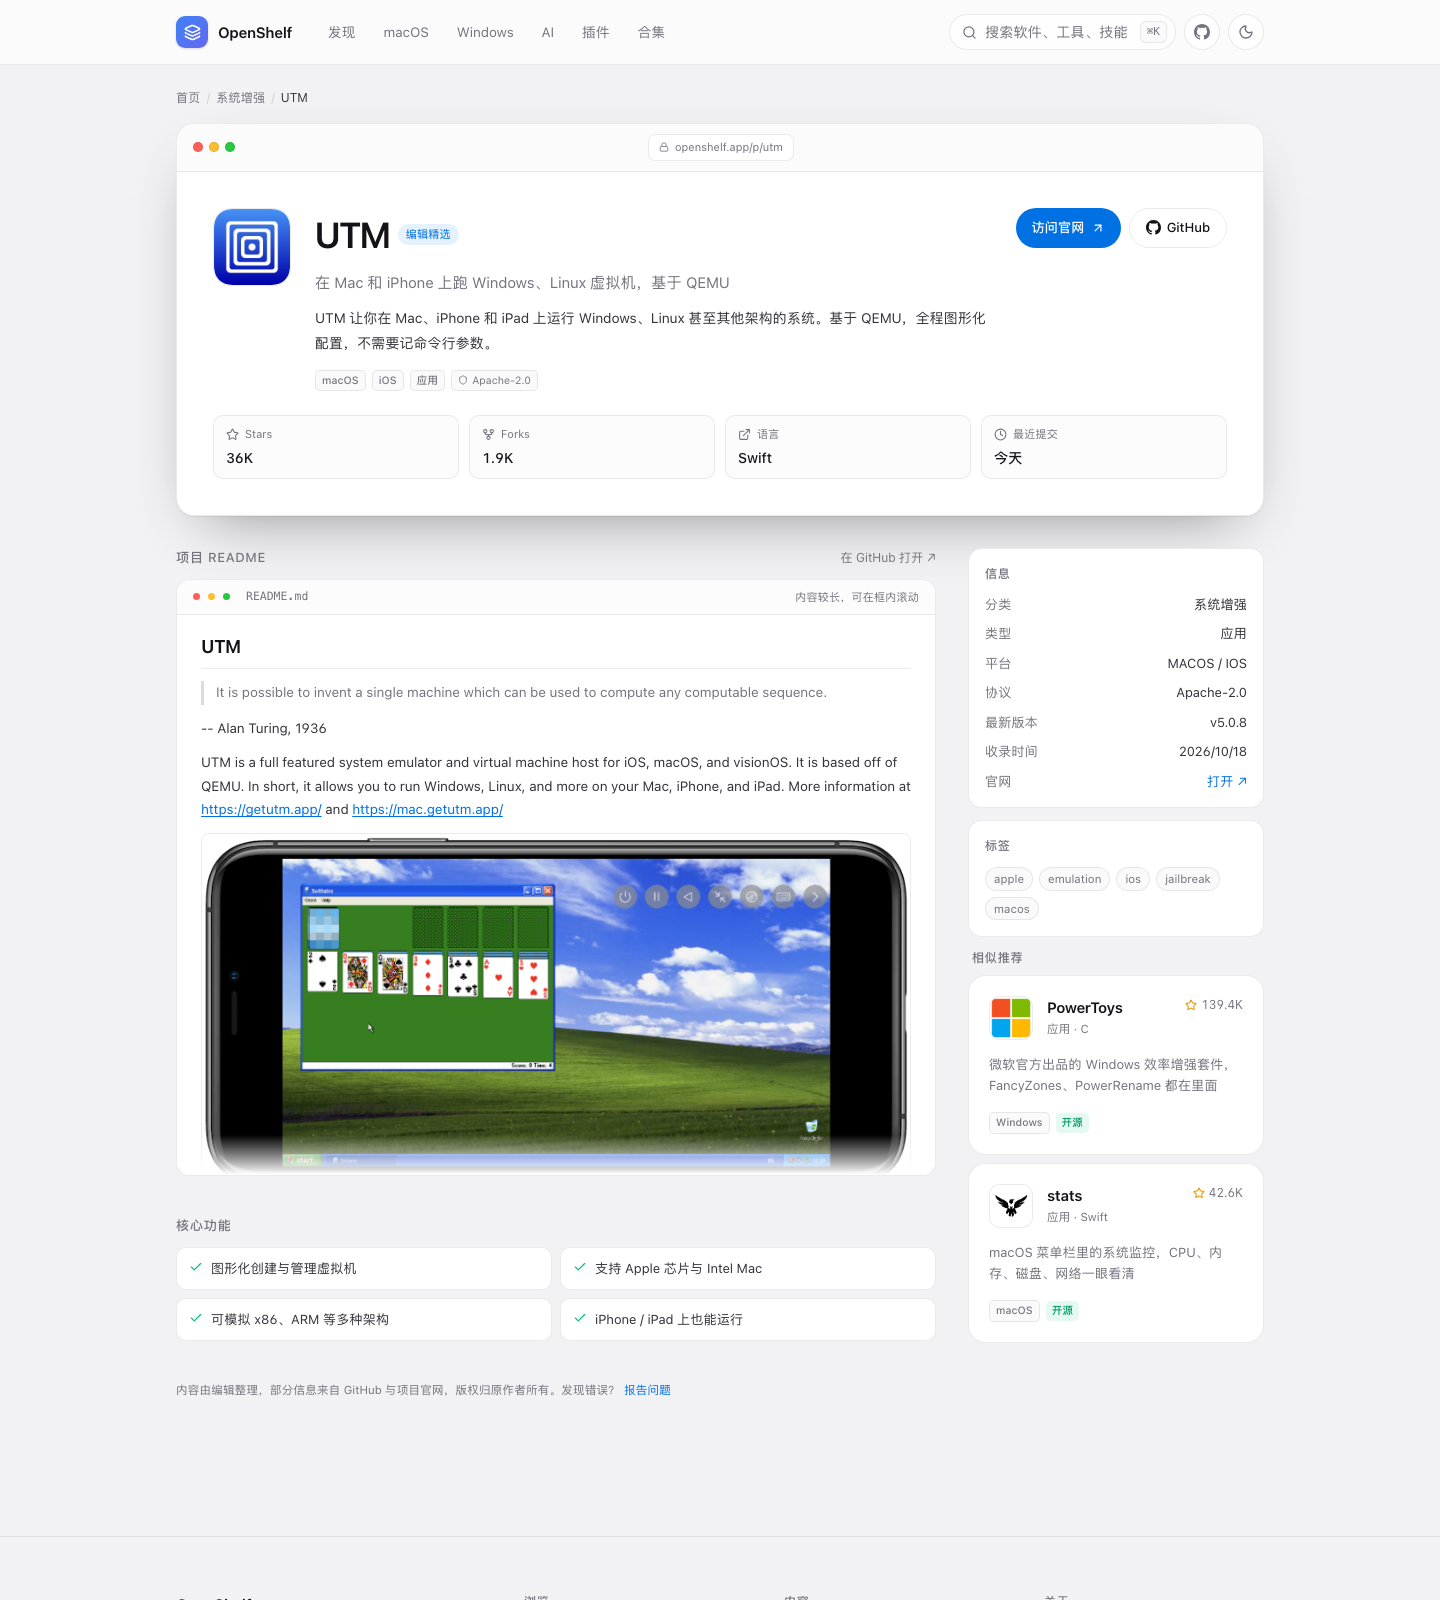
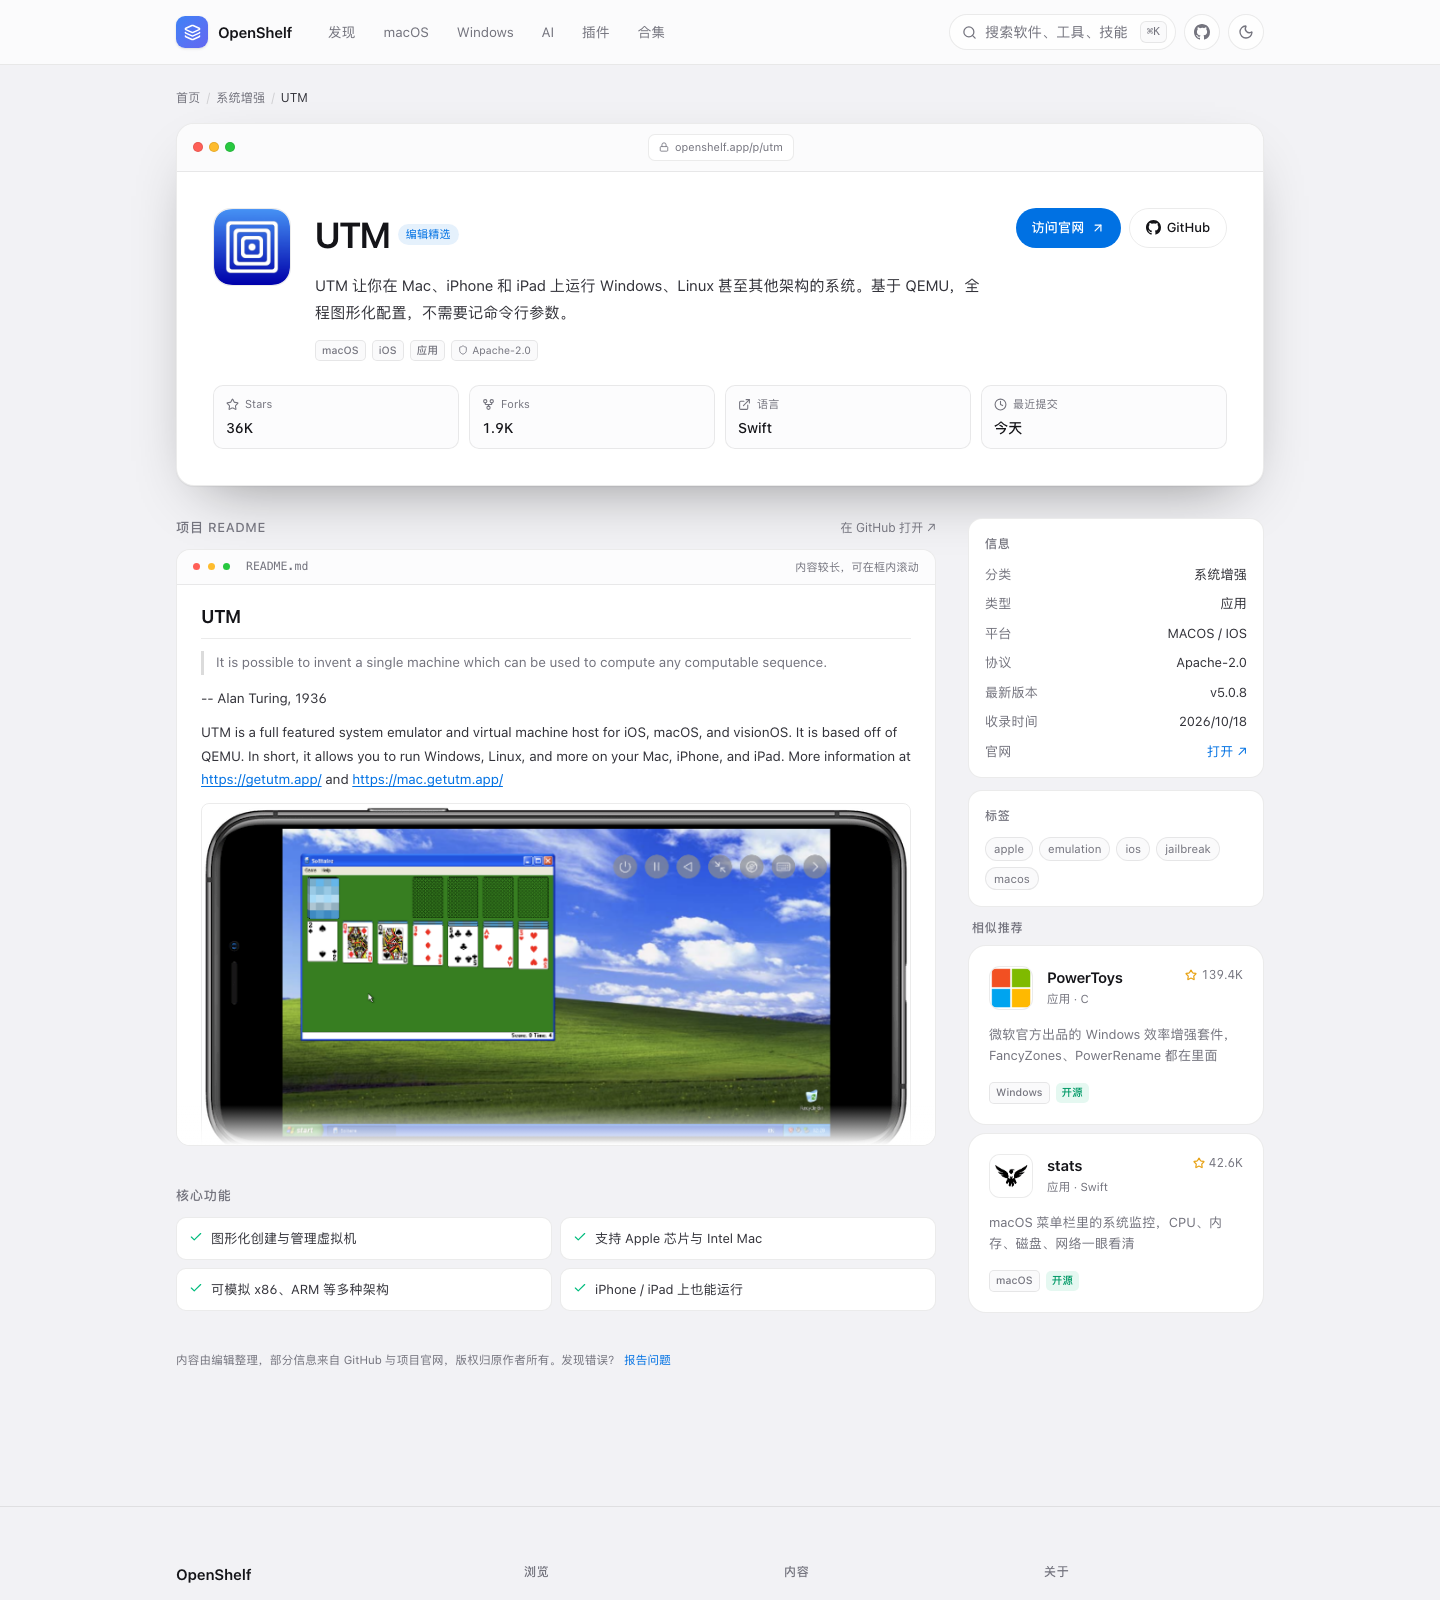
fix: 详情页顶部去掉重复的一句话介绍
有简介时只显示简介，没有简介才回退到 tagline；tagline 仍用于列表卡片、搜索结果与 SEO

diff --git a/src/app/(site)/p/[slug]/page.tsx b/src/app/(site)/p/[slug]/page.tsx
@@ -139,15 +139,9 @@ export default async function ItemPage({ params }: Params) {
                 ) : null}
               </div>
 
-              <p className="mt-2 max-w-2xl text-[14.5px] leading-relaxed text-muted md:text-[15px]">
-                {item.tagline || '一个值得关注的开源项目。'}
+              <p className="mt-2.5 max-w-3xl text-[14.5px] leading-[1.8] text-ink-soft md:text-[15px]">
+                {item.summary || item.tagline || '一个值得关注的开源项目。'}
               </p>
-
-              {item.summary ? (
-                <p className="mt-3 max-w-3xl text-[13.8px] leading-[1.8] text-ink-soft">
-                  {item.summary}
-                </p>
-              ) : null}
 
               <div className="mt-3.5 flex flex-wrap items-center gap-1.5">
                 {platforms.map((platform) => (
